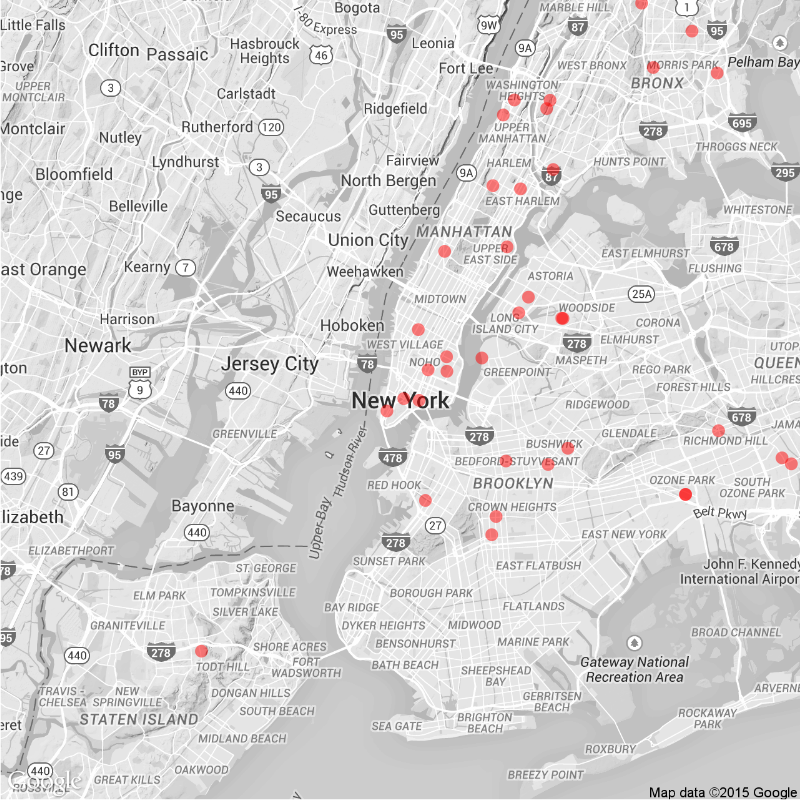
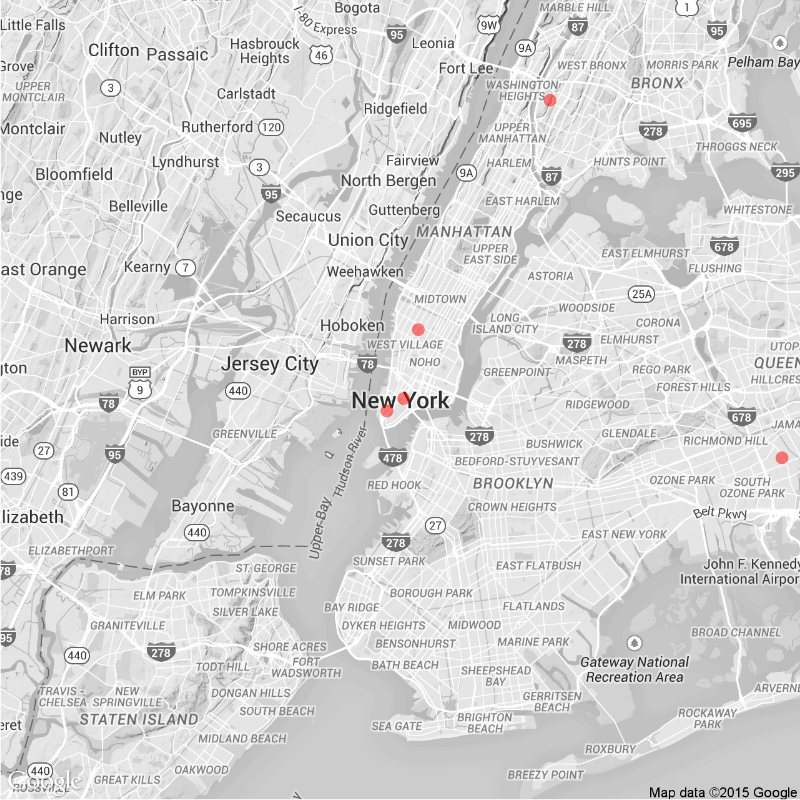
Daily Maps

diff --git a/daily.md b/daily.md
@@ -15,22 +15,22 @@ tags: Chicago NYC weekly daily rats
 
 ### Daily
 
-Yesterday (May 01), there were 123 calls to Chicago's 311 line about rats.
+Yesterday (May 02), there were 36 calls to Chicago's 311 line about rats.
 ![Chicago rat calls to 311 weekly map]({{ site.cityimages }}/daily/Chicago_Rat_Map_Daily.png)
 
 ### Weekly
-Between April 25 and May 01, there were 641 calls to Chicago's 311 line about rats. The average number of weekly calls for this time of year is 649.
+Between April 26 and May 02, there were 641 calls to Chicago's 311 line about rats. The average number of weekly calls for this time of year is 649.
 ![Chicago rat calls to 311 weekly map]({{ site.cityimages }}/daily/Chicago_Rat_Map_Weekly.png)
 ***
 # New York City <a id="nyc"><a>
 
 ### Daily
 
-Yesterday (May 01), there were 0 calls to New York City's 311 line about rats.
+Yesterday (May 02), there were 0 calls to New York City's 311 line about rats.
 ![NYC rat calls to 311 weekly map]({{ site.cityimages }}/daily/NYC_Rat_Map_Daily.png)
 
 ### Weekly
-Between April 25 and May 01, there were 41 calls to New York City's 311 line about rats. The average number of weekly calls for this time of year is 236.
+Between April 26 and May 02, there were 5 calls to New York City's 311 line about rats. The average number of weekly calls for this time of year is 236.
 ![NYC rat calls to 311 weekly map]({{ site.cityimages }}/daily/NYC_Rat_Map_Weekly.png)
 
 Each red dot represents one call about a rat seen in that location. The dots are transparent, so multiple calls from one location will be seen as a solid dot. The usual caveats apply: more calls do not necessarily mean that there are more rats in that location than other parts of the city. A cluster of dots could indicate that one resident is unusually vocal about rodents in his or her neighborhood. Also, more densely populated neighborhoods tend to make more calls to 311.
